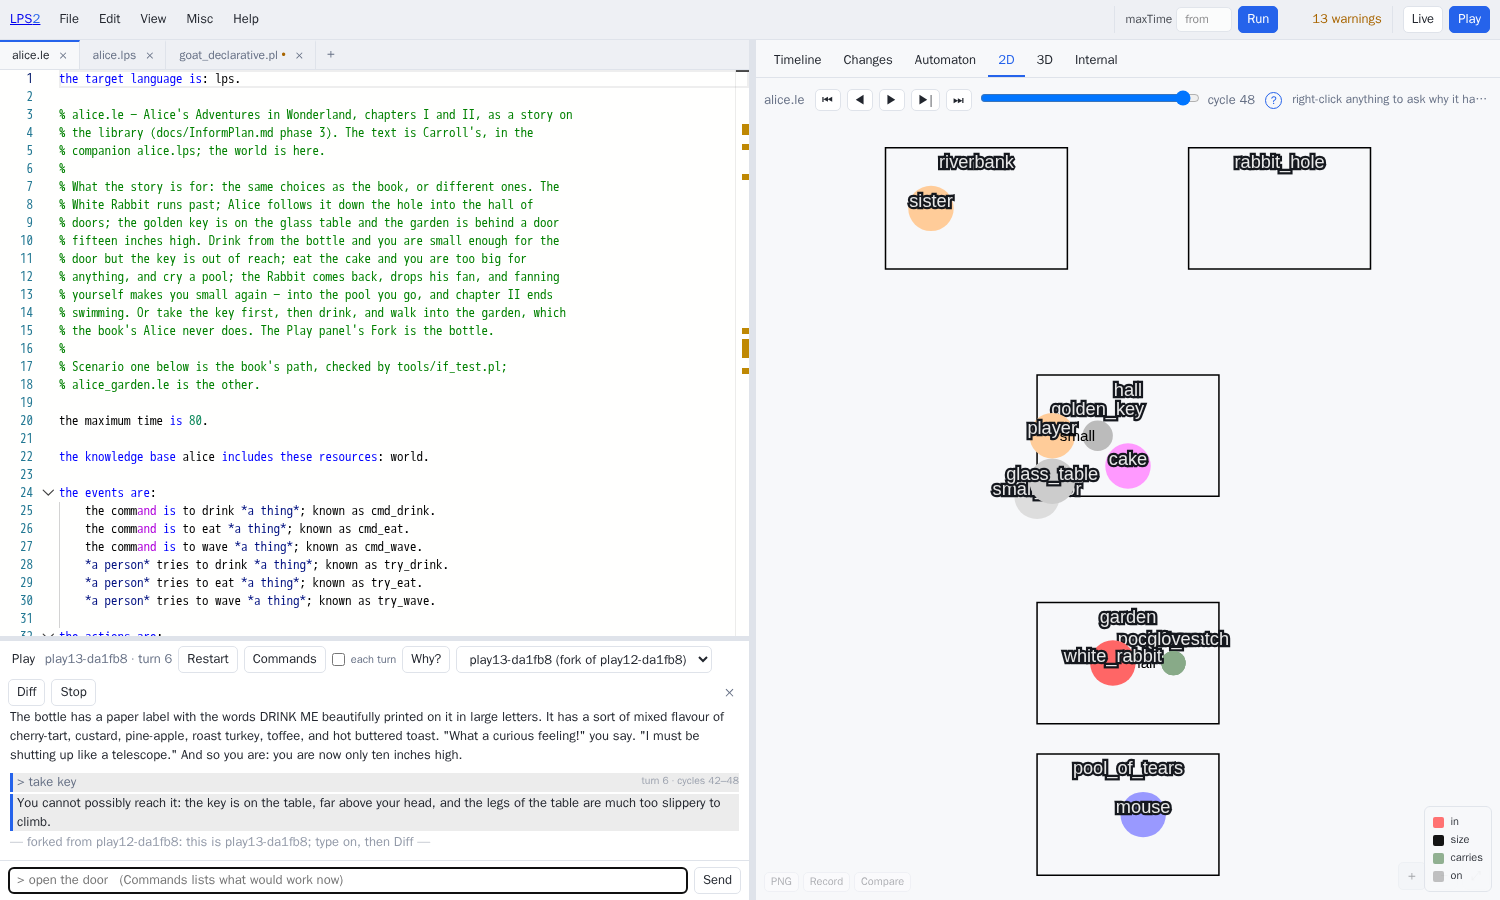
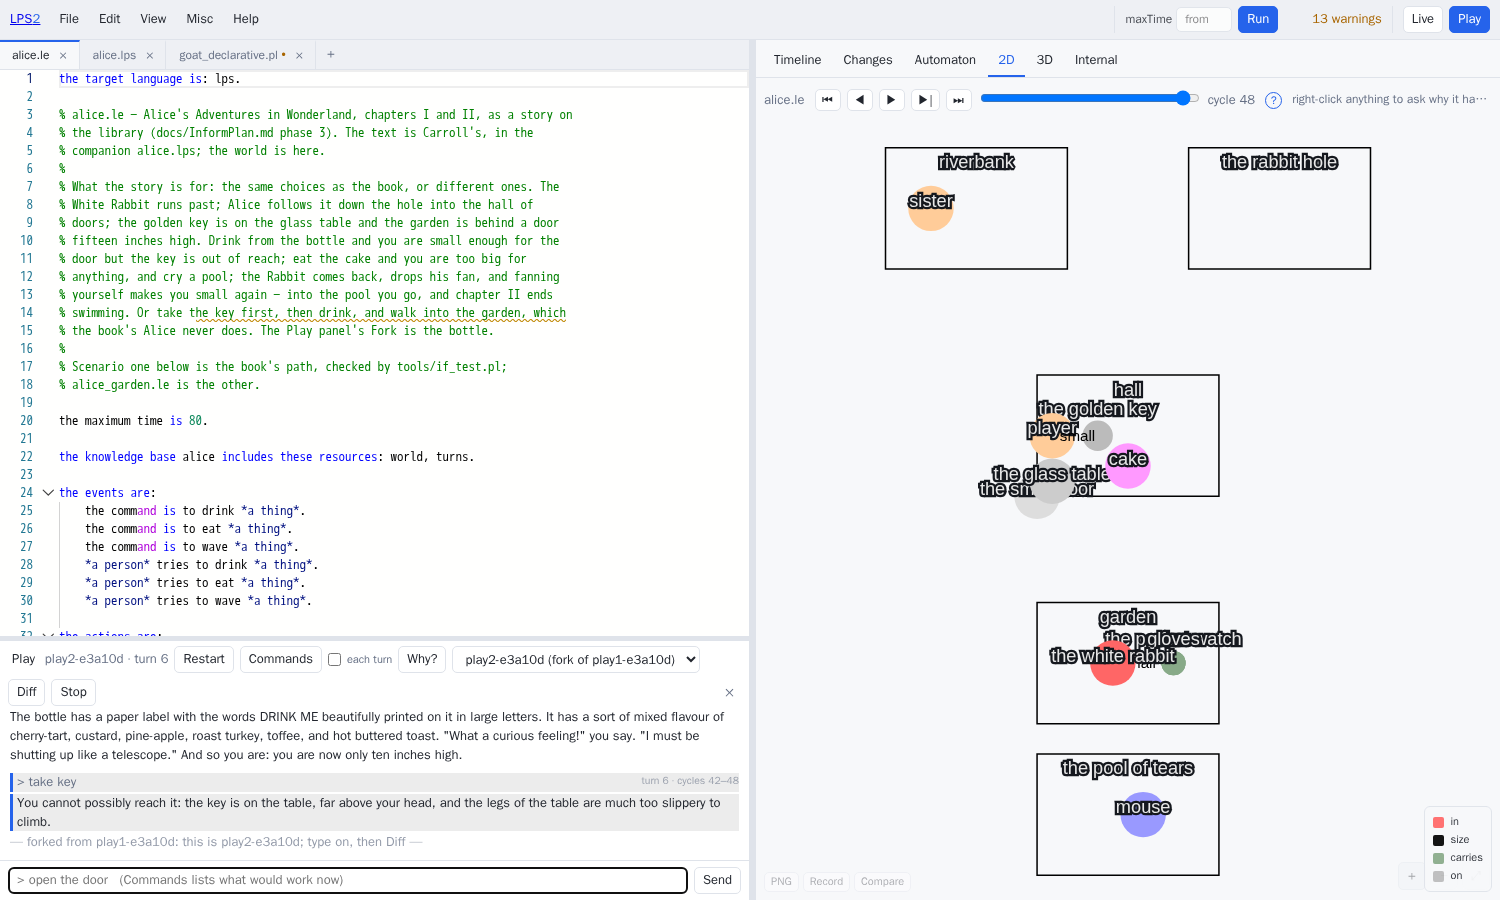
update images in doc; fix bug in live running of .le

diff --git a/ui/src/main.js b/ui/src/main.js
@@ -654,16 +654,24 @@ function sourceForRun() {
   return `maxTime(${n}).\n` + stripped;
 }
 
+/*  The program in the active tab, compiled as what it is.
+ *
+ *  Either half of a Logical English program is the whole of it: the companion
+ *  on its own is a set of display clauses, and running *that* draws nothing at
+ *  all. Anything else compiles in the syntax its name says. Run and Live share
+ *  this; Live used to compile the buffer as legacy LPS whatever the tab held,
+ *  and a Logical English story answered "syntax error: operator_expected
+ *  (line 1)" — the first line of English read as Prolog. */
+async function compileCurrent(source) {
+  const pair = tabs.lePair();
+  if (pair) return compileLe(pair);
+  return api.compile(source ?? state.editor.getValue(), tabs.syntaxOf(state.fileName));
+}
+
 async function runProgram(cycles) {
   setStatus('compiling…');
   try {
-    //  Either half of a Logical English program runs the whole of it: the
-    //  companion on its own is a set of display clauses, and running *that*
-    //  draws nothing at all.
-    const pair = tabs.lePair();
-    const c = pair
-      ? await compileLe(pair)
-      : await api.compile(sourceForRun(), tabs.syntaxOf(state.fileName));
+    const c = await compileCurrent(sourceForRun());
     state.program = c.program;
     const s = await api.sessionNew(c.program);
     state.session = s.session;
@@ -2169,7 +2177,7 @@ async function boot() {
   });
 
   mountAssistant({ state, api, setStatus, openDialog, closeDialog, el });
-  mountLive({ state, api, setStatus, el, refreshPane, setCycle });
+  mountLive({ state, api, setStatus, el, refreshPane, setCycle, compileCurrent });
   const play = mountPlay({ state, api, setStatus, el, tabs, setCycle, setCycleBounds, refreshPane, markPaneAvailability });
 
   /*  An edit the editor did not see — the assistant writing a `.le` document's

diff --git a/ui/src/live.js b/ui/src/live.js
@@ -12,7 +12,7 @@
  * button to open the 2D or 3D animation in its own window, following the live
  * session rather than a slider.
  */
-export function mountLive({ state, api, setStatus, el }) {
+export function mountLive({ state, api, setStatus, el, compileCurrent }) {
   const panel = document.getElementById('live');
   const statusEl = document.getElementById('live-status');
   const evInput = document.getElementById('live-event');
@@ -116,9 +116,12 @@ export function mountLive({ state, api, setStatus, el }) {
       const mt = state.profile?.max_time;
       if (mt != null) {
         note(`this program declares maxTime(${mt}); it will stop by itself at cycle ${mt} `
-             + 'and the session will end. Remove maxTime for a session that keeps going.', 'warn');
+             + 'and the session will end. Remove maxTime (in Logical English, "the maximum time is …") '
+             + 'for a session that keeps going.', 'warn');
       }
-      const c = await api.compile(state.editor.getValue(), 'legacy');
+      //  Compiled as what the tab holds — a Logical English pair, legacy or
+      //  internal syntax — the same way Run compiles it.
+      const c = await compileCurrent();
       const r = await api.api({
         operation: 'live_start',
         program: c.program,
